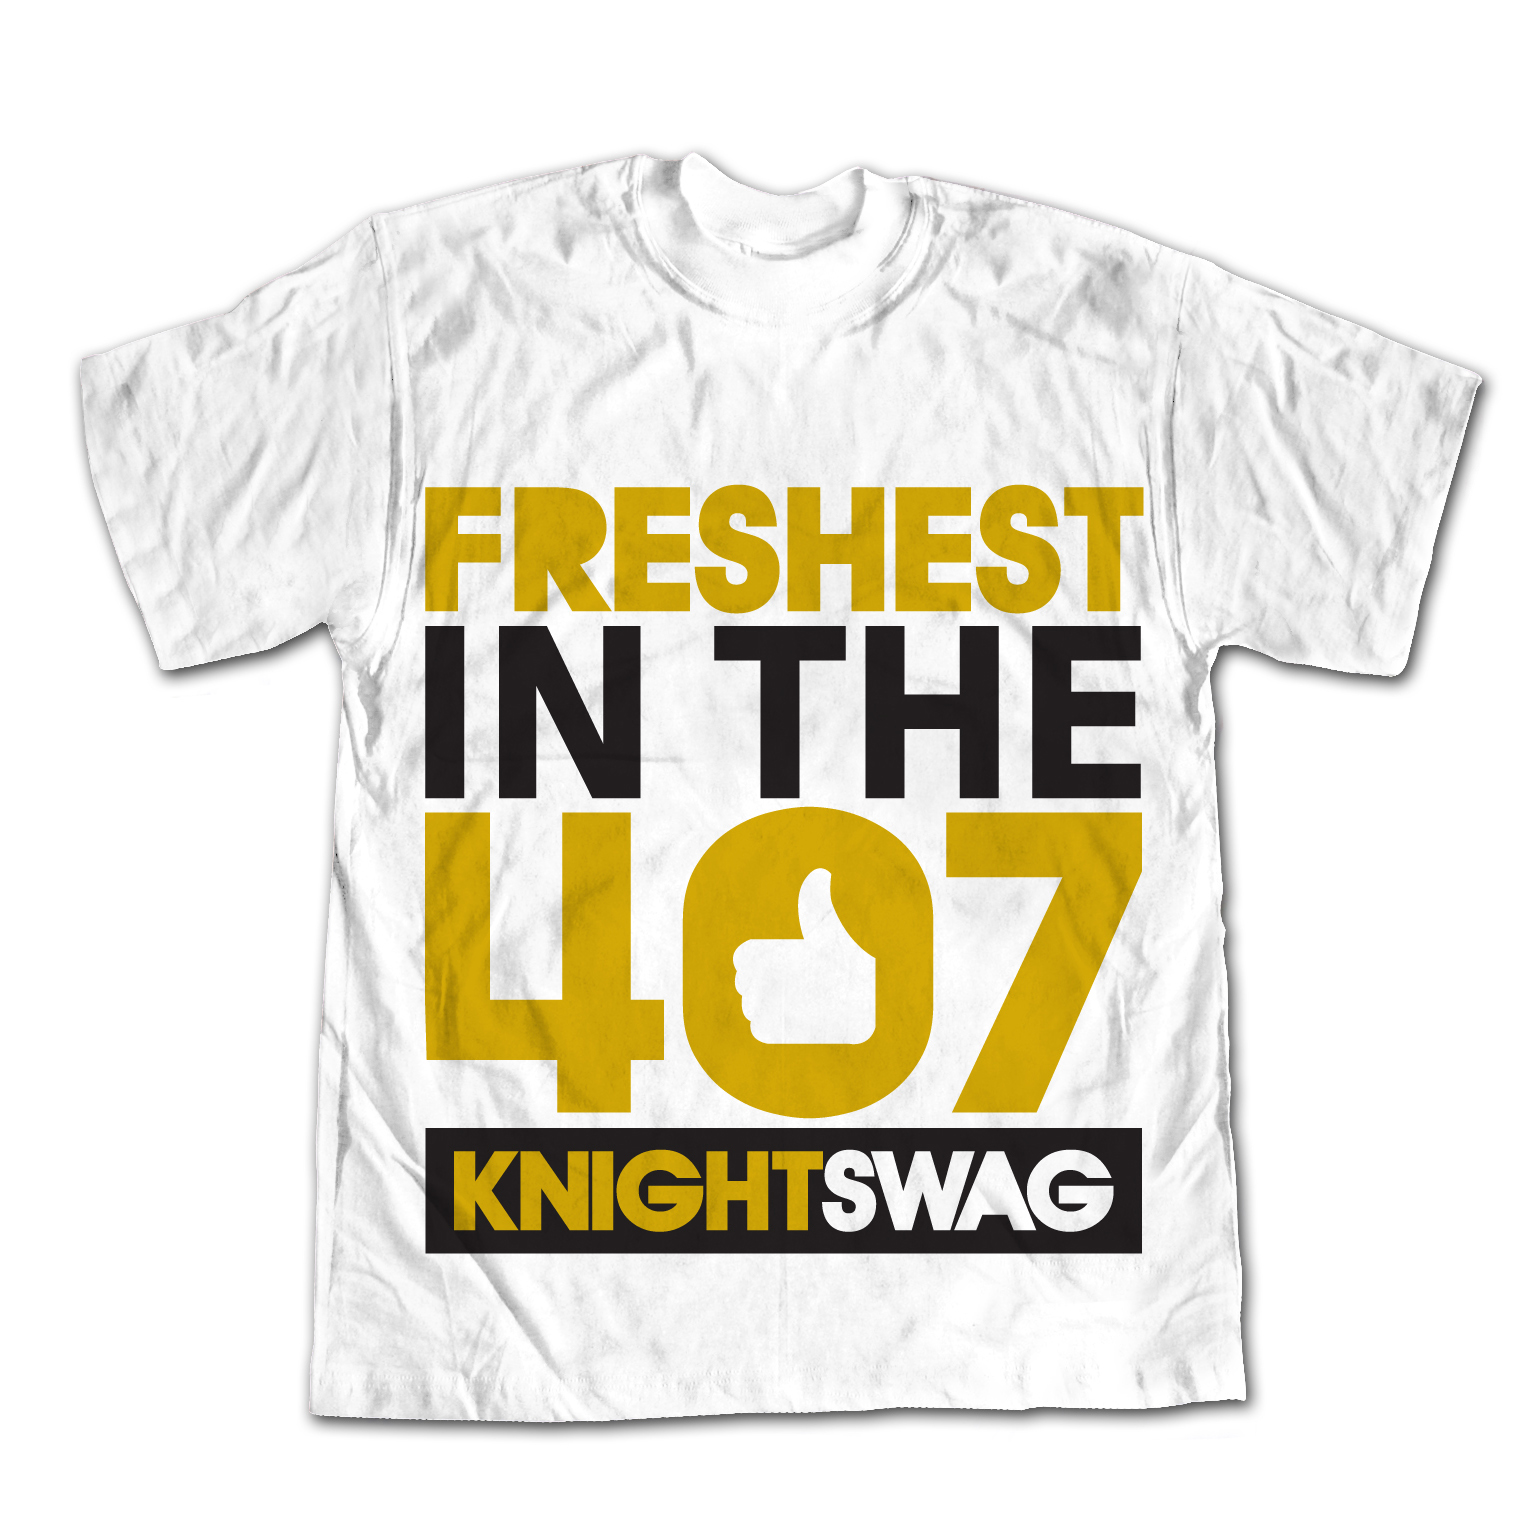
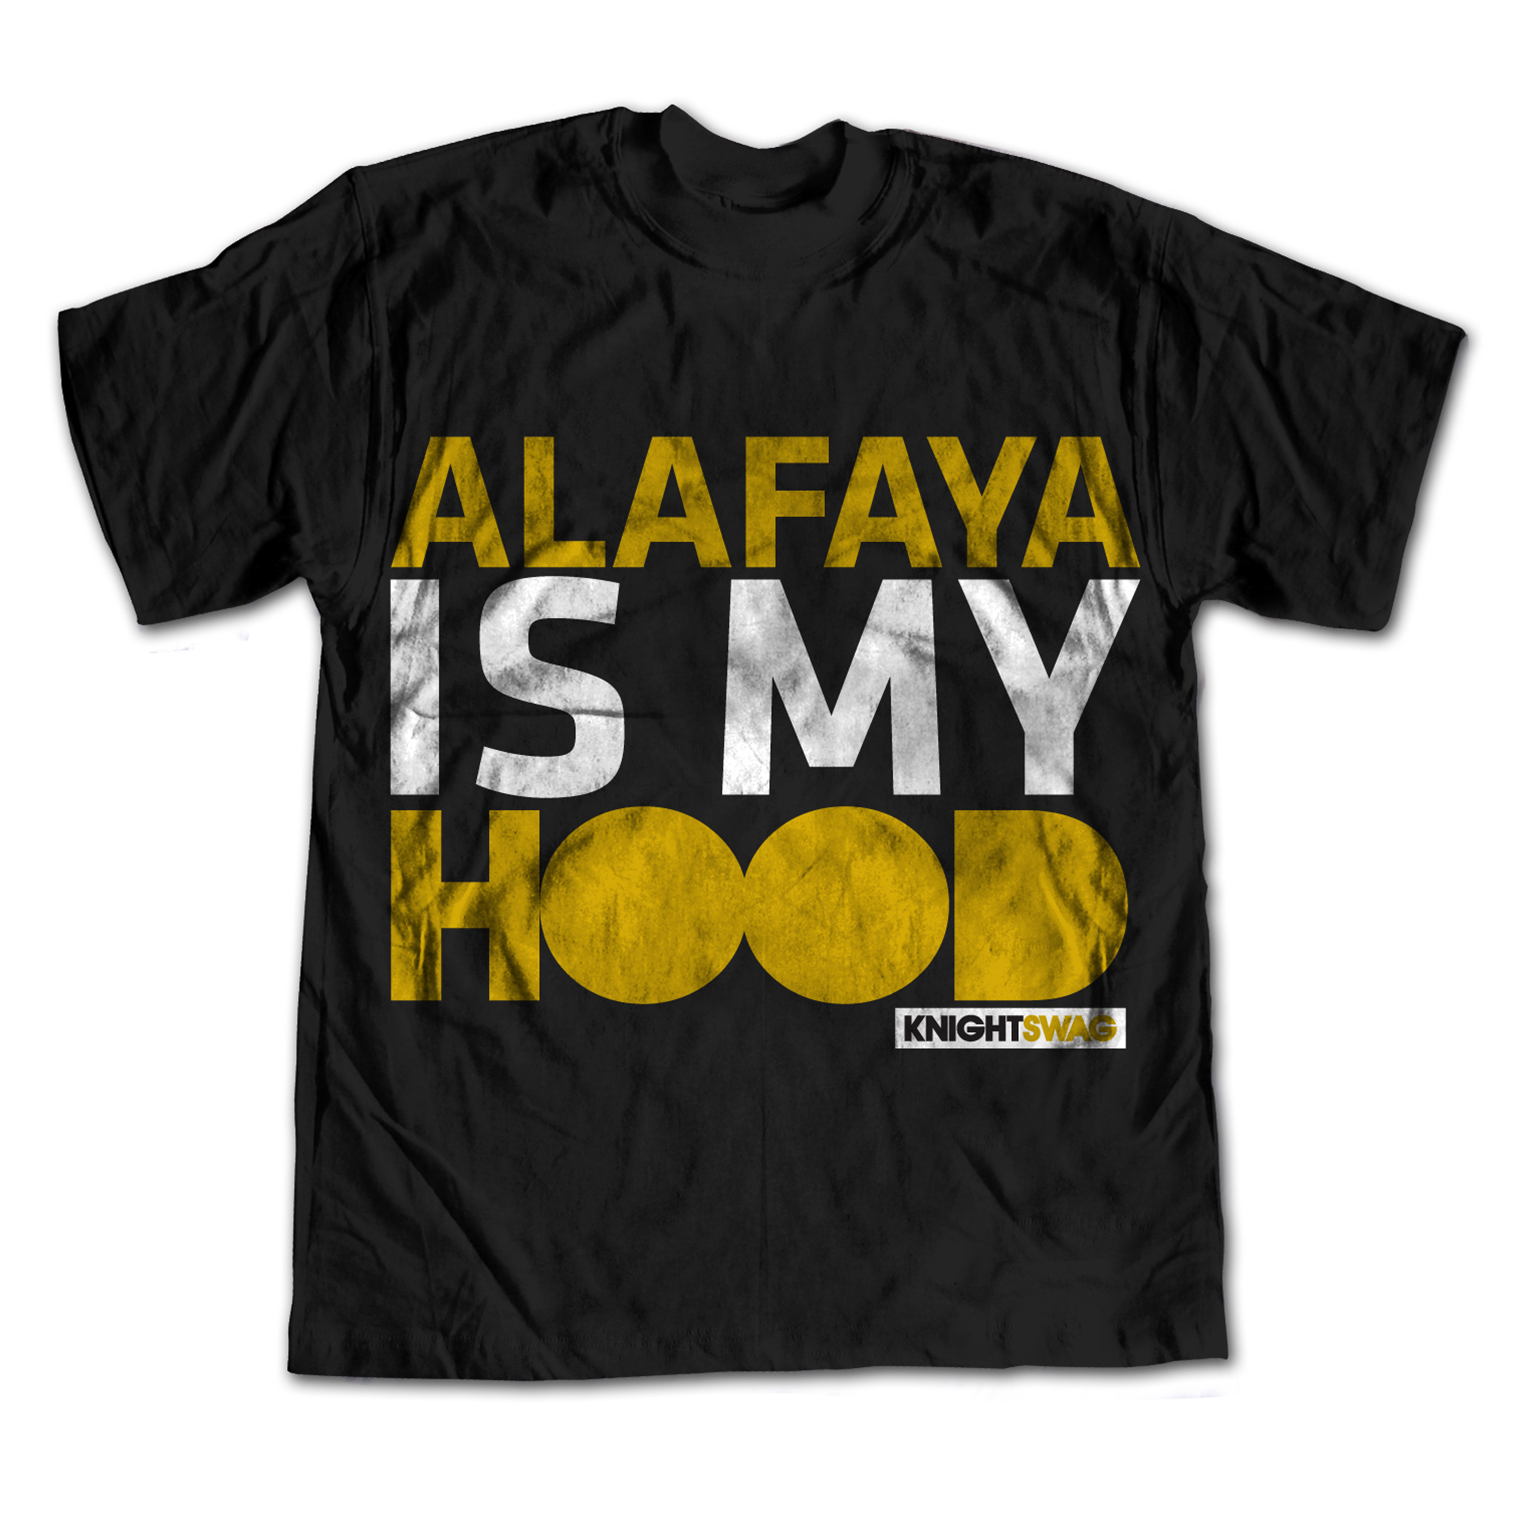
Version 1 - home, about and store page.

diff --git a/store.html b/store.html
@@ -40,20 +40,20 @@
 			<div class="row shirtDesc">
 				<section class="col-md-4">
 					<img class="thumb" src="images/alafaya.jpg" alt="Alafaya"/>
-					<h3>Alafaya Shirt</h3>
-					<p>This shirt is great</p>
+					<h3>Alafaya is My Hood</h3>
+					<p>Rep your &quot;hood&quot;...or dorm or student housing or apartment complex all located on the one and only, Alafaya Drive.</p>
 				</section>
 
 				<section class="col-md-4">
-					<img class="thumb" src="images/407.jpg" alt="407"/>
-					<h3>407 Shirt</h3>
-					<p>This shirt is the great.est</p>
-				</section>
+					<img class="thumb" src="images/freshest.jpg" alt="407"/>
+					<h3>Freshest in the 407</h3>
+					<p>Are you the &quot;freshest&quot; in Orlando? Who are we kidding, you're a Knight!</p>
+				</section> 
 
 				<section class="col-md-4">
 					<img class="thumb" src="images/stomp.jpg" alt="407"/>
-					<h3>407 Shirt</h3>
-					<p>This shirt is the great.est</p>
+					<h3>Stomp Clap Woosh</h3>
+					<p>Get your head in the game on gameday.</p>
 				</section>
 			</div> <!--row-->
 		</div> <!--container-fluid storeSection-->
@@ -76,7 +76,7 @@
 									<a href="mailto:#">sup@knightswag.com</a>	
 								</address>
 								
-							</div class="connect"> 
+							</div> <!--row-->
 							<div class="col-md-3" class="blank"></div> <!--blank-->
 							<div class="col-md-3" class="blank"></div> <!--blank-->
 							<div class="col-md-3" id="social">

diff --git a/index.html b/index.html
@@ -30,10 +30,10 @@
 		  			<a class="navbar-brand" href="index.html"><img alt="Brand" src="images/knightswag_logo.jpg" id="logo" /></a>
 		  		</div> <!--navbar-header-->
 
-				<ul class="nav navbar-nav navbar-right">
+				<ul class="nav navbar-nav navbar-right text-center">
 				 	<li role="about" ><a href="about.html" class="clearfix">ABOUT</a></li>
 				  	<li role="shop"><a href="store.html">SHOP</a></li>
-				  	<li role="contact us"><a href="contact.html">CONTACT</a></li>
+				  	<li role="contact us"><a href="#">CONTACT</a></li>
 				</ul> 
 			</div> <!--container-fluid navBar-->
 		</nav> <!--navbar-default-->
@@ -67,8 +67,7 @@
 								<strong>Email:</strong><br>
 								<a href="mailto:#">sup@knightswag.com</a>	
 							</address>
-							
-						</div class="connect"> 
+						</div> <!--row-->
 						<div class="col-md-3" class="blank"></div> <!--blank-->
 						<div class="col-md-3" class="blank"></div> <!--blank-->
 						<div class="col-md-3" id="social">

diff --git a/css/style.css b/css/style.css
@@ -134,16 +134,25 @@ footer address{
 }
 
 #headlineHome{ 
-    font-size: 50pt;
+    font-size: 75pt;
     font-family: asap-bold;
     color:white;
 }
 
 @media(max-width:768px){
     #headlineHome{
-        font-size: 25pt;
-        line-height: 35pt;
+        font-size: 30pt;
+        line-height: 40pt;
     }
+
+    .subscribe{
+		background-color: rgba(42, 42, 42, 1);
+		position: relative;
+		padding-left: 100px;
+		padding-right: 100px;
+		padding-top: 70px;
+		padding-bottom: 70px;
+	}
 }
 
 /*/////////HOME END/////////*/
@@ -218,17 +227,17 @@ footer address{
 		padding-top:125px;
 }
 
-/*//////////STORE START////////////*/
+/*//////////STORE END////////////*/
 
 
 
 /*//////////CONTACT US START//////////*/
-.contactForm{
+/*.contactForm{
 	position: relative;
 	background-color: red;
 	top:50px;
 
-}
+}*/
 
 .main{
 	position: relative;
@@ -324,3 +333,5 @@ textarea {
 		
 	}
 }
+
+/*//////////CONTACT US END//////////*/

diff --git a/about.html b/about.html
@@ -66,8 +66,7 @@
 								<strong>Email:</strong><br>
 								<a href="mailto:#">sup@knightswag.com</a>	
 							</address>
-							
-						</div class="connect"> 
+						</div> <!--row-->
 						<div class="col-md-3" class="blank"></div> <!--blank-->
 						<div class="col-md-3" class="blank"></div> <!--blank-->
 						<div class="col-md-3" id="social">
